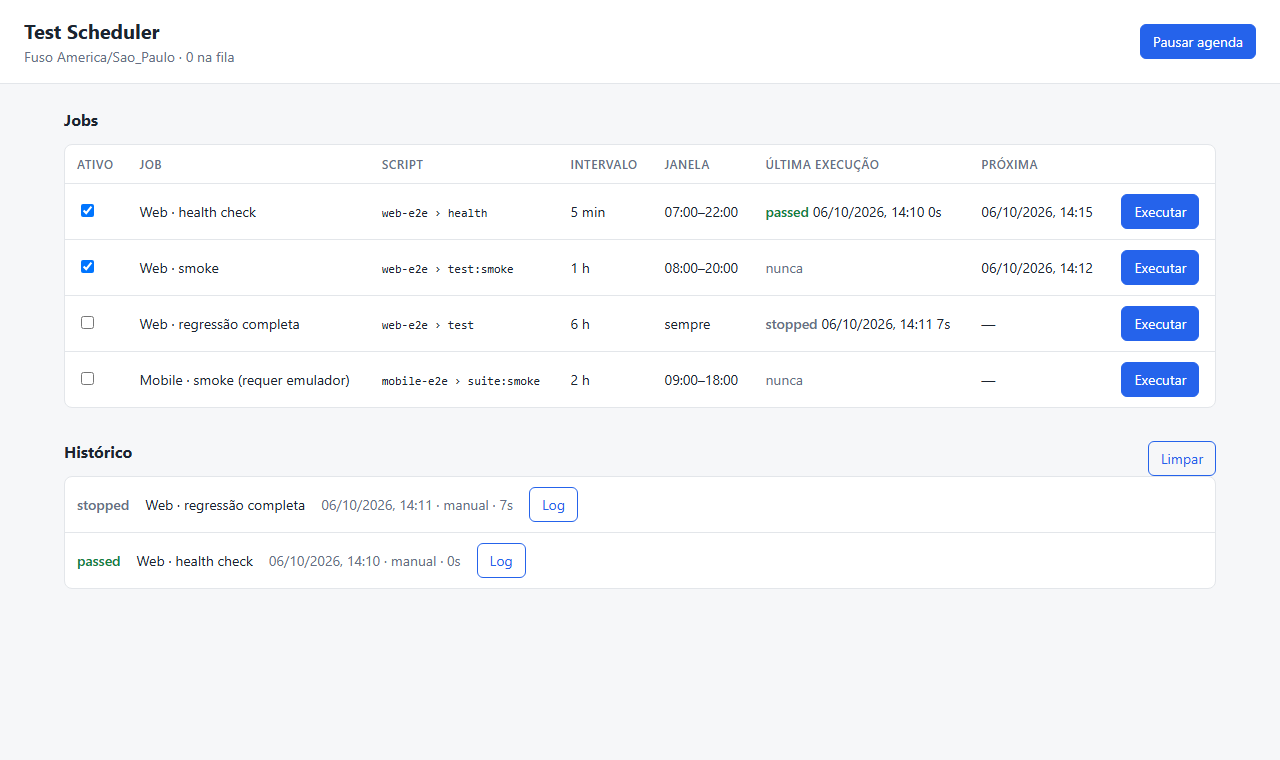
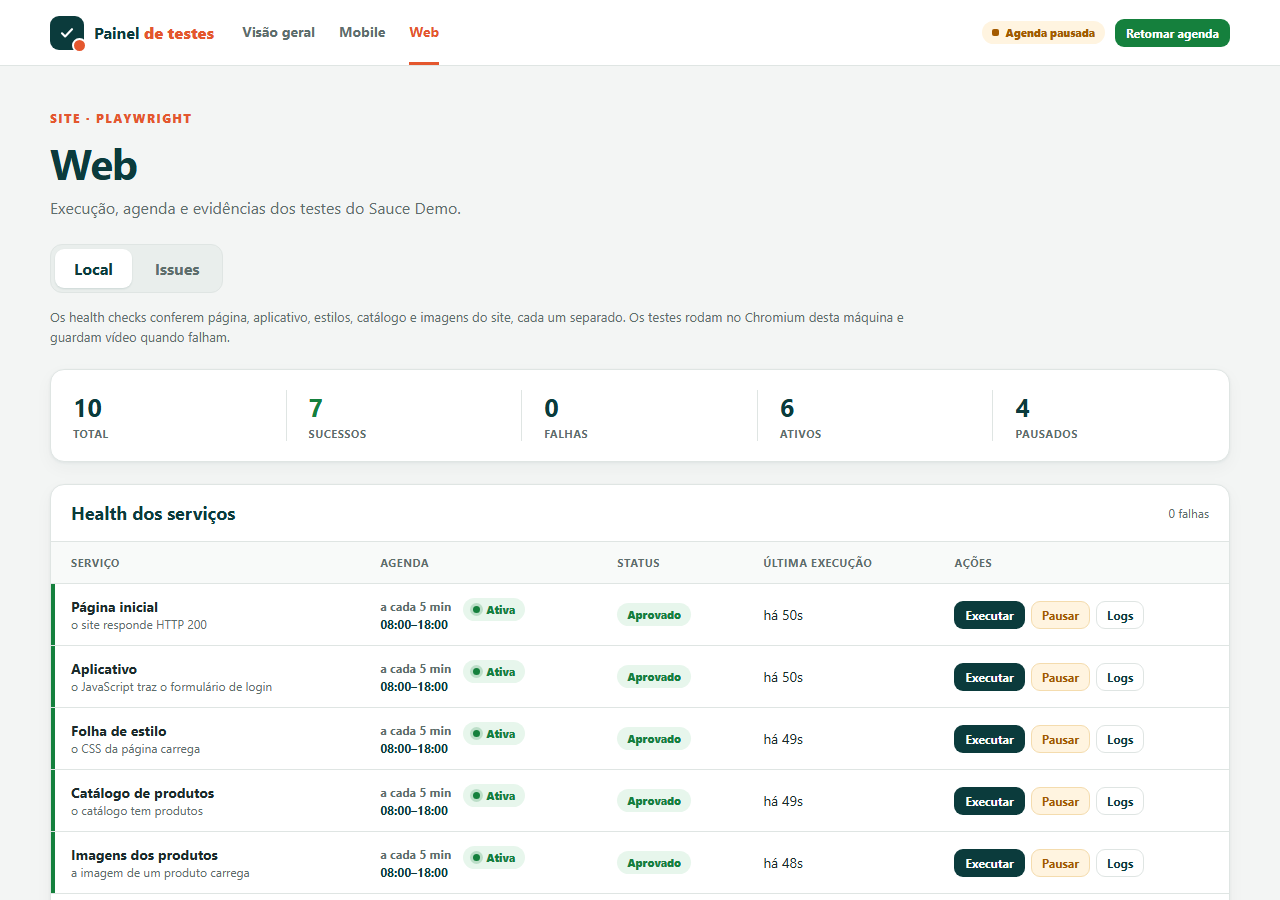
docs: abertura do README, espaço para o GIF e print do painel novo

diff --git a/README.md b/README.md
@@ -4,6 +4,8 @@
 [![Mobile E2E](https://github.com/alvessq/qa-automation-portfolio/actions/workflows/mobile-e2e.yml/badge.svg)](https://github.com/alvessq/qa-automation-portfolio/actions/workflows/mobile-e2e.yml)
 [![Web Monitoring](https://github.com/alvessq/qa-automation-portfolio/actions/workflows/web-monitoring.yml/badge.svg)](https://github.com/alvessq/qa-automation-portfolio/actions/workflows/web-monitoring.yml)
 
+Projeto público que recria, com apps de demonstração, a abordagem de automação que uso no trabalho. Os cases completos estão no meu [portfólio](https://alvessq.github.io).
+
 Monorepo de automação de testes com três frentes:
 
 | Workspace | Stack | O que faz |
@@ -14,10 +16,13 @@ Monorepo de automação de testes com três frentes:
 
 Os dois alvos são aplicações públicas mantidas pela Sauce Labs justamente para prática de automação.
 
+<!-- GIF: docs/images/mobile-e2e-demo.gif (teste rodando no emulador) -->
+<!-- ![Teste mobile rodando no emulador](docs/images/mobile-e2e-demo.gif) -->
+
 <p align="center">
   <img src="docs/images/my-demo-app-catalog.png" alt="Catálogo do My Demo App no emulador" height="420">
   &nbsp;
-  <img src="docs/images/scheduler-dashboard.png" alt="Painel do Test Scheduler" height="420">
+  <img src="docs/images/scheduler-dashboard.png" alt="Painel de testes: página Web com os health checks" height="420">
 </p>
 
 ---
